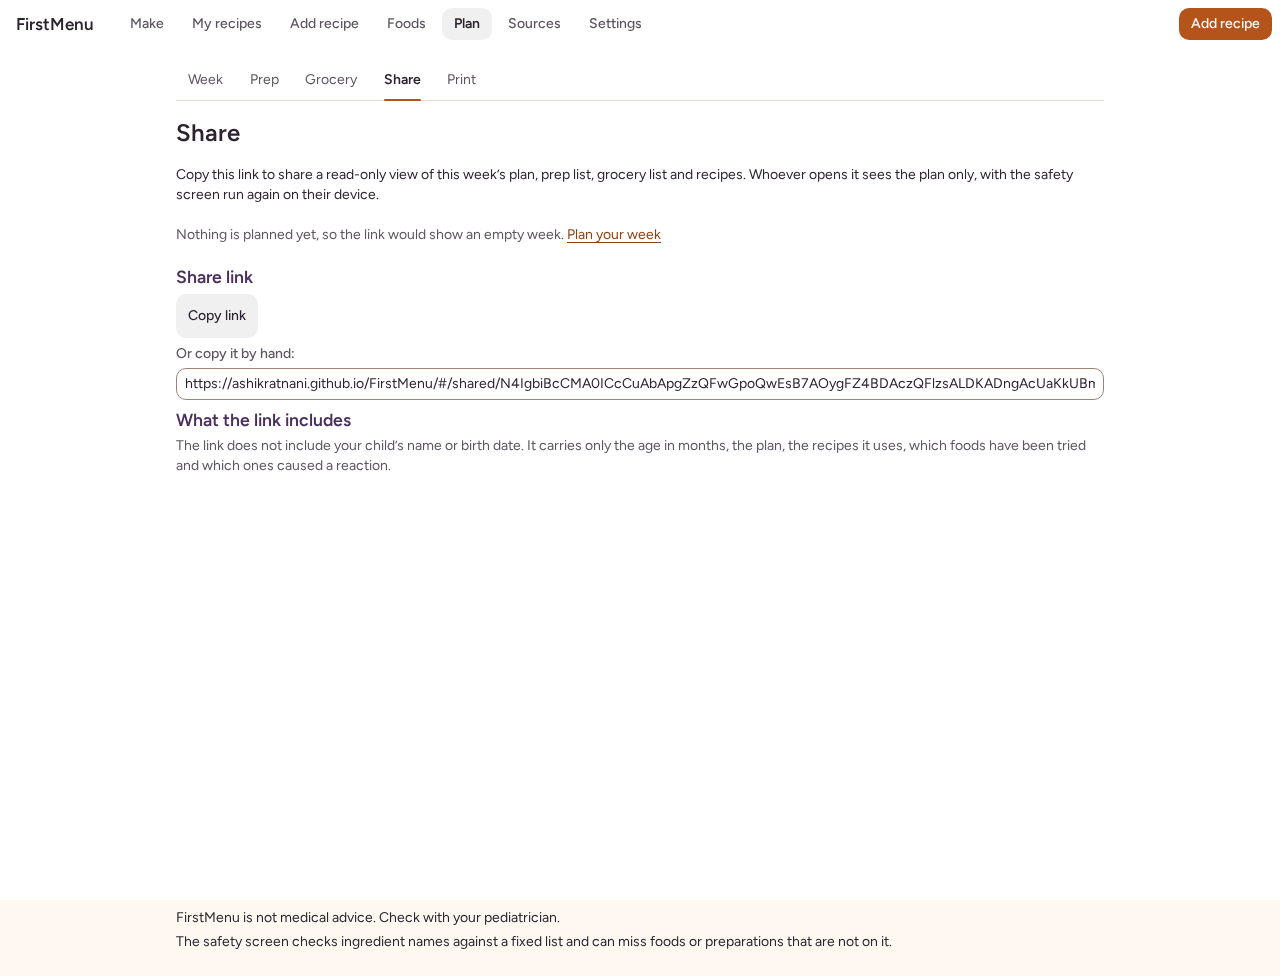
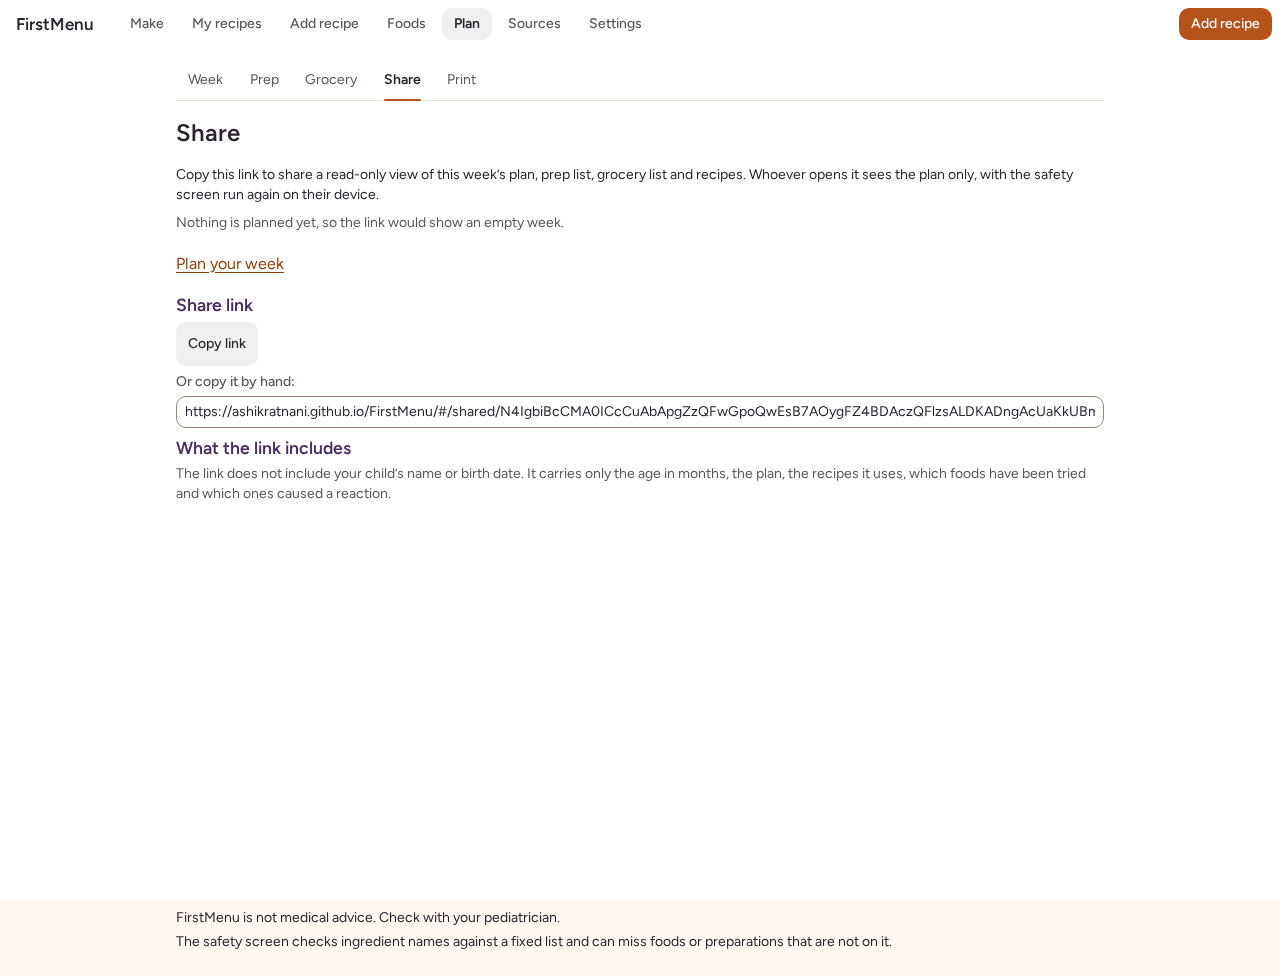
fix: Share empty check uses active slots, nextStep links on own line, HashRouter focus test (task 19.2)

Changed region(s): [[0.125, 0.2152, 0.875, 0.5225]]

diff --git a/src/ui/pages/Plan.test.tsx b/src/ui/pages/Plan.test.tsx
@@ -1,8 +1,9 @@
 import { fireEvent, render, screen, within } from '@testing-library/react';
 import userEvent from '@testing-library/user-event';
-import { MemoryRouter } from 'react-router-dom';
+import { HashRouter, MemoryRouter, Route, Routes } from 'react-router-dom';
 import { describe, expect, it, beforeEach } from 'vitest';
 import Plan from './Plan';
+import Layout from '../components/Layout';
 import planCss from './Plan.module.css?raw';
 import { ruleBody } from '../../test/cssRule';
 import { AppProvider, useApp } from '../../state/AppProvider';
@@ -368,11 +369,34 @@ describe('Plan week view', () => {
     // The same region element now carries the message and a link to the settings.
     expect(screen.getByRole('status')).toBe(region);
     expect(region).toHaveTextContent('No meals selected.');
-    const link = within(region).getByRole('link', { name: 'Plan settings' });
+    const link = within(region).getByRole('link', { name: 'Go to Plan settings' });
     expect(link).toHaveAttribute('href', '#week-controls');
     expect(link).toHaveClass('fm-link');
     expect(document.getElementById('week-controls')).not.toBeNull();
     expect(screen.queryByRole('heading', { name: /Day 1/ })).toBeNull();
+  });
+
+  it('the settings link keeps the page and moves focus to Plan settings under HashRouter', async () => {
+    const user = userEvent.setup();
+    window.location.hash = '#/plan';
+    render(
+      <AppProvider storage={makeStorage(seedState(8, [OATS_RECIPE], []))}>
+        <HashRouter>
+          <Routes>
+            <Route element={<Layout />}>
+              <Route path="/plan" element={<Plan />} />
+            </Route>
+          </Routes>
+        </HashRouter>
+      </AppProvider>,
+    );
+    await user.click(screen.getByRole('link', { name: 'Go to Plan settings' }));
+    // The fragment click is not read as a route change: the page is still there.
+    expect(screen.getByRole('heading', { name: 'This week' })).toBeInTheDocument();
+    expect(screen.getByText(/No meals selected/)).toBeInTheDocument();
+    expect(window.location.hash).toBe('#/plan');
+    expect(document.activeElement).toBe(document.getElementById('week-controls'));
+    window.location.hash = '';
   });
 
   it('slot buttons and settings controls are 44 px targets (CSS)', () => {

diff --git a/src/ui/pages/Plan.tsx b/src/ui/pages/Plan.tsx
@@ -17,12 +17,13 @@
 // recording a reaction on a planned recipe's food ghosts that slot and shows
 // the Replace prompt on the next render (Req 7.6).
 //
-// Below the grid (the week comes first): active-slot toggles (Req 8.2, dispatch setActiveSlots), a
-// new-week keep|empty control (Req 8.5, dispatch newWeek{mode}), a prep-date
-// input (Req 8.4, dispatch setPrepDate), and — when newFoodSpacingWarning is
-// non-null — ONE new-food spacing warning citing its source (Req 7.8). No new
-// health wording is written: the warning is derived from the spacing value +
-// its published source, like the existing Foods/Sources citations.
+// The week comes first. Above the grid, when newFoodSpacingWarning is non-null,
+// sits ONE new-food spacing warning citing its source (Req 7.8). No new health
+// wording is written: the warning is derived from the spacing value + its
+// published source, like the existing Foods/Sources citations. Below the grid
+// is the Plan settings section: active-slot toggles (Req 8.2, dispatch
+// setActiveSlots), a new-week keep|empty control (Req 8.5, dispatch
+// newWeek{mode}) and a prep-date input (Req 8.4, dispatch setPrepDate).
 
 import { useState } from 'react';
 import { Link } from 'react-router-dom';
@@ -115,13 +116,15 @@ export default function Plan() {
         )}
 
         {activeSlots.length === 0 && (
-          <p className={styles.noSlots}>
-            No meals selected. Choose at least one meal in{' '}
+          <>
+            <p className={styles.noSlots}>
+              No meals selected. Choose at least one meal in Plan settings to
+              start planning.
+            </p>
             <a href="#week-controls" className={`fm-link ${styles.nextStep}`}>
-              Plan settings
-            </a>{' '}
-            to start planning.
-          </p>
+              Go to Plan settings
+            </a>
+          </>
         )}
       </div>
 

diff --git a/src/ui/pages/Share.test.tsx b/src/ui/pages/Share.test.tsx
@@ -8,7 +8,7 @@ import { ruleBody } from '../../test/cssRule';
 import { AppProvider } from '../../state/AppProvider';
 import { STORAGE_KEY, defaultState } from '../../domain/storage';
 import { SHARE_BASE_URL } from '../../domain/share';
-import type { AppState, Recipe } from '../../domain/types';
+import type { AppState, MealType, Recipe } from '../../domain/types';
 
 // The Share page copies a read-only share link (navigator.clipboard with a
 // graceful fallback field), warns when the link is long (Req 11.6) and surfaces
@@ -157,6 +157,23 @@ describe('Share page', () => {
     unmount();
 
     renderShare(longState());
+    expect(screen.queryByRole('link', { name: 'Plan your week' })).toBeNull();
+  });
+
+  it('counts only active slots when deciding the plan is empty', () => {
+    const withMeal = (activeSlots: MealType[]): AppState => {
+      const base = shortState();
+      const days: AppState['plan']['days'] = Array.from({ length: 7 }, () => ({}));
+      days[0] = { dinner: 'b-carrots-and-apples' };
+      return { ...base, plan: { ...base.plan, activeSlots, days } };
+    };
+    // A meal in a deselected slot is not shared, so the empty note shows.
+    const { unmount } = renderShare(withMeal(['breakfast']));
+    expect(screen.getByRole('link', { name: 'Plan your week' })).toBeInTheDocument();
+    unmount();
+
+    // The same meal in an active slot: no note.
+    renderShare(withMeal(['breakfast', 'dinner']));
     expect(screen.queryByRole('link', { name: 'Plan your week' })).toBeNull();
   });
 

diff --git a/src/ui/pages/Share.tsx b/src/ui/pages/Share.tsx
@@ -28,8 +28,10 @@ export default function Share() {
   const { state } = useApp();
   const { url } = encodeSharePayload(state);
   const tooLong = isShareLinkLong(url);
+  // Only the active slots count, as in the shared view: a meal left in a
+  // deselected slot is not part of the shared week.
   const planIsEmpty = state.plan.days.every((day) =>
-    Object.values(day).every((id) => id === undefined),
+    state.plan.activeSlots.every((meal) => day[meal] === undefined),
   );
 
   const [copied, setCopied] = useState(false);
@@ -66,11 +68,13 @@ export default function Share() {
 
       {planIsEmpty && (
         <p className={styles.emptyNote}>
-          Nothing is planned yet, so the link would show an empty week.{' '}
-          <Link to="/plan" className={`fm-link ${styles.nextStep}`}>
-            Plan your week
-          </Link>
+          Nothing is planned yet, so the link would show an empty week.
         </p>
+      )}
+      {planIsEmpty && (
+        <Link to="/plan" className={`fm-link ${styles.nextStep}`}>
+          Plan your week
+        </Link>
       )}
 
       <section className={styles.linkBlock} aria-labelledby="share-link-heading">

diff --git a/src/test/cssRule.ts b/src/test/cssRule.ts
@@ -2,7 +2,8 @@
 // (imported with `?raw`) whose selector list contains `selector`. jsdom does
 // not apply CSS modules, so this lets a test pin facts such as
 // "min-height: 44px" on a control's class.
-export function ruleBody(css: string, selector: string): string {
+export function ruleBody(source: string, selector: string): string {
+  const css = source.replace(/\/\*[\s\S]*?\*\//g, '');
   const escaped = selector.replace(/[.[\]()]/g, '\\$&');
   const match = new RegExp(`(?:^|[\\s,}])${escaped}(?:,[^{]*)?\\s*\\{([^}]*)\\}`).exec(css);
   if (match === null) throw new Error(`No rule for ${selector}`);

diff --git a/src/ui/a11y.test.tsx b/src/ui/a11y.test.tsx
@@ -461,7 +461,7 @@ describe('Accessibility: axe on every main page (color-contrast disabled)', () =
     } as AppState;
     const { container } = renderApp(path, emptyPlan);
     expect(screen.getByRole('heading', { level: 1, name: heading })).toBeInTheDocument();
-    expect(screen.getByRole('link', { name: /^(Plan your week|Plan settings)$/ })).toBeInTheDocument();
+    expect(screen.getByRole('link', { name: /^(Plan your week|Go to Plan settings)$/ })).toBeInTheDocument();
     const results = await axe(container, AXE_OPTIONS);
     expect(results).toHaveNoViolations();
   });
